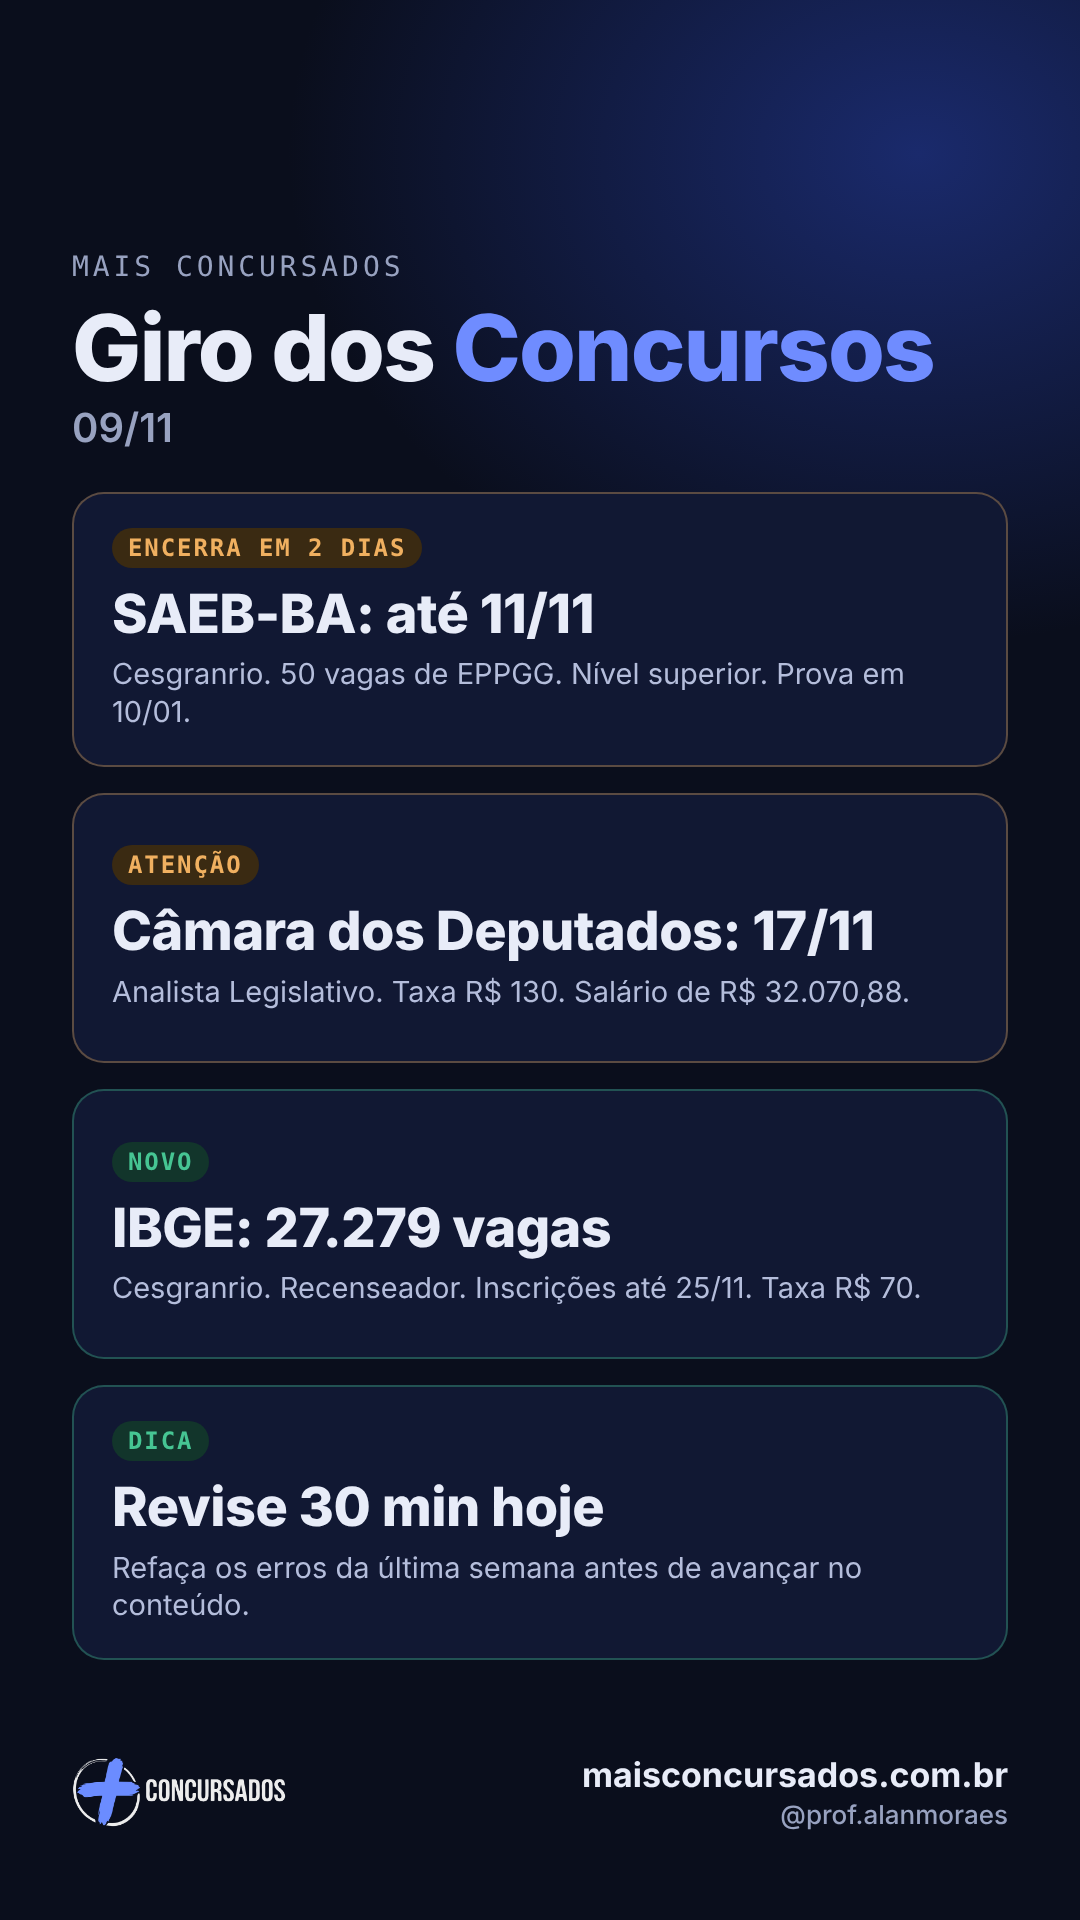
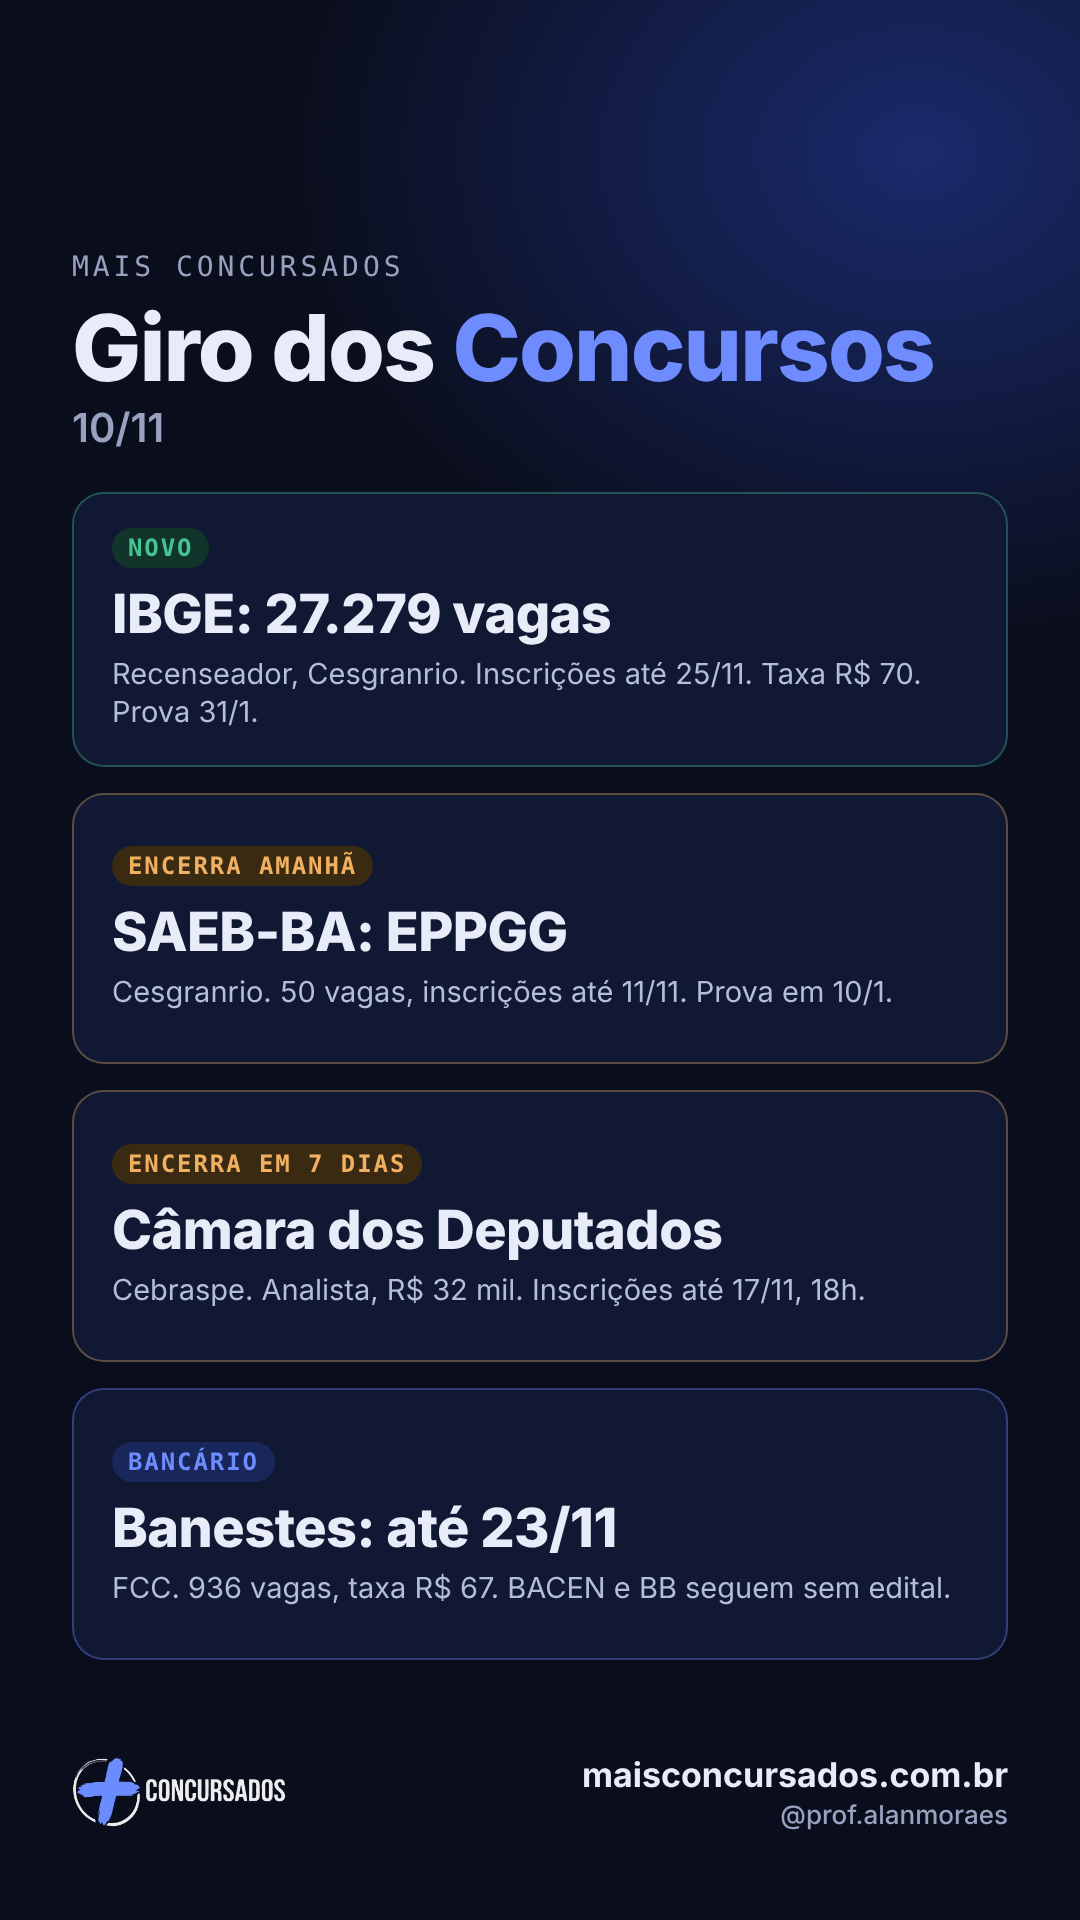
Giro dos Concursos 10/11: prazos SAEB-BA, Câmara e IBGE e arte de stories
Claude-Session: https://claude.ai/code/session_01A4P6MbPqYQXUr67uW2hJa6

diff --git a/site/editais.html b/site/editais.html
@@ -48,7 +48,7 @@
 </main>
 <footer><div class="wrap"><div><h4>Mais Concursados</h4><p>Editais de concursos de todas as áreas, com destaque para os bancários, e estudo com método para quem quer a aprovação. Por Alan Moraes, bancário, professor e mentor para concursos.</p></div><div><h4>Navegue</h4><ul><li><a href="editais.html">Editais</a></li><li><a href="cursos.html">Cursos</a></li><li><a href="blog.html">Blog</a></li><li><a href="mentorias.html">Mentorias</a></li><li><a href="area-do-aluno.html">Área do aluno</a></li></ul></div><div><h4>Institucional</h4><ul><li><a href="sobre.html">Sobre o Alan</a></li><li><a href="contato.html">Contato</a></li><li><a href="privacidade.html">Política de privacidade</a></li></ul></div><p class="legal">© 2026 Mais Concursados · maisconcursados.com.br. As informações de editais vêm de portais de notícias e devem ser conferidas no edital oficial. O Mais Concursados não é banca organizadora nem órgão público.</p></div></footer>
 <script type="application/json" id="editais-data">{
-  "atualizadoEm": "2026-11-09",
+  "atualizadoEm": "2026-11-10",
   "aviso": "Conferido em 13/10/2026 no texto dos editais e em pelo menos duas fontes independentes. Os sites das bancas bloquearam a leitura automática, por isso confirme sempre no edital oficial antes de se inscrever.",
   "editais": [
     {

diff --git a/site/index.html b/site/index.html
@@ -72,7 +72,7 @@
 </main>
 <footer><div class="wrap"><div><h4>Mais Concursados</h4><p>Editais de concursos de todas as áreas, com destaque para os bancários, e estudo com método para quem quer a aprovação. Por Alan Moraes, bancário, professor e mentor para concursos.</p></div><div><h4>Navegue</h4><ul><li><a href="editais.html">Editais</a></li><li><a href="cursos.html">Cursos</a></li><li><a href="blog.html">Blog</a></li><li><a href="mentorias.html">Mentorias</a></li><li><a href="area-do-aluno.html">Área do aluno</a></li></ul></div><div><h4>Institucional</h4><ul><li><a href="sobre.html">Sobre o Alan</a></li><li><a href="contato.html">Contato</a></li><li><a href="privacidade.html">Política de privacidade</a></li></ul></div><p class="legal">© 2026 Mais Concursados · maisconcursados.com.br. As informações de editais vêm de portais de notícias e devem ser conferidas no edital oficial. O Mais Concursados não é banca organizadora nem órgão público.</p></div></footer>
 <script type="application/json" id="editais-data">{
-  "atualizadoEm": "2026-11-09",
+  "atualizadoEm": "2026-11-10",
   "aviso": "Conferido em 13/10/2026 no texto dos editais e em pelo menos duas fontes independentes. Os sites das bancas bloquearam a leitura automática, por isso confirme sempre no edital oficial antes de se inscrever.",
   "editais": [
     {
